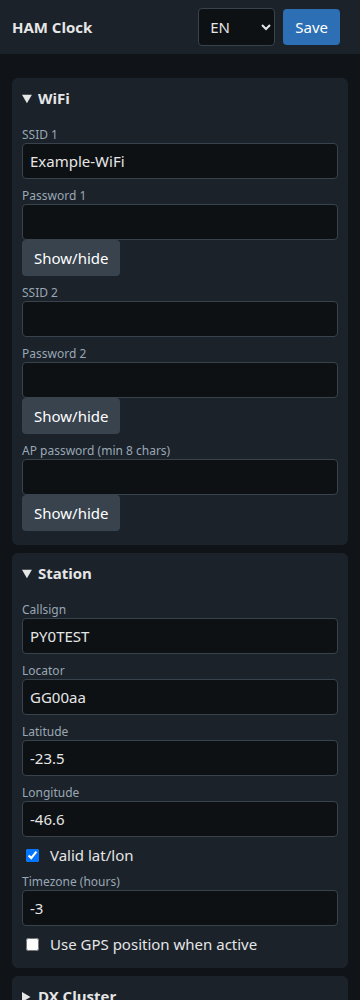
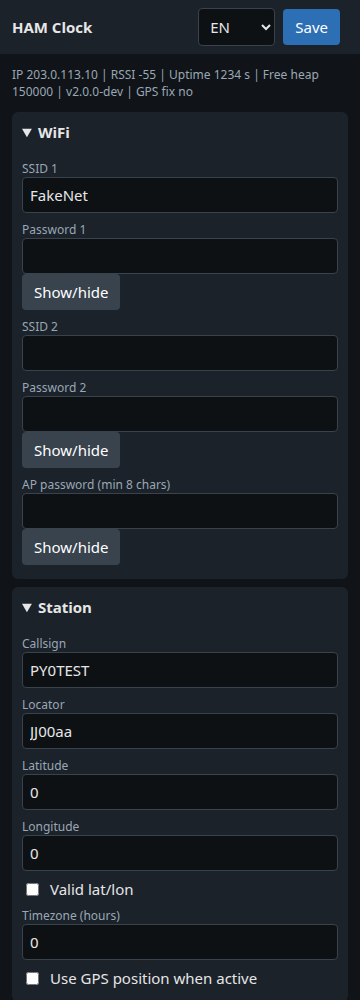
docs: refresh README screenshots

diff --git a/README.md b/README.md
@@ -33,8 +33,9 @@ Screens, in swipe order:
 ## Screens
 
 Mock screenshots of each screen, captured from the device in English with
-sample data (the DX and APRS tables are filled with fake rows, and the other
-network-dependent screens show their "no data" state).
+sample data (the DX, POTA, HamAlert and APRS tables are filled with fake rows,
+and the other network-dependent screens show their "no data" state). The
+Settings screen was opened from the gear icon on the Clock screen.
 
 |   |   |   |
 |:---:|:---:|:---:|
@@ -61,7 +62,7 @@ DX Cluster menu (mode and band filters, Clear DX list) and APRS list menu
 ### Web configuration page
 
 The configuration page served by the board, shown with placeholder values
-(callsign `PY0TEST`, fake WiFi network). The WiFi, Station and Display
+(callsign `PY0TEST`, fake WiFi network, no passwords). The WiFi and Station
 sections are expanded; the other sections are collapsed.
 
 <img src="docs/screenshots/web-desktop-en.png" width="600"><br>
